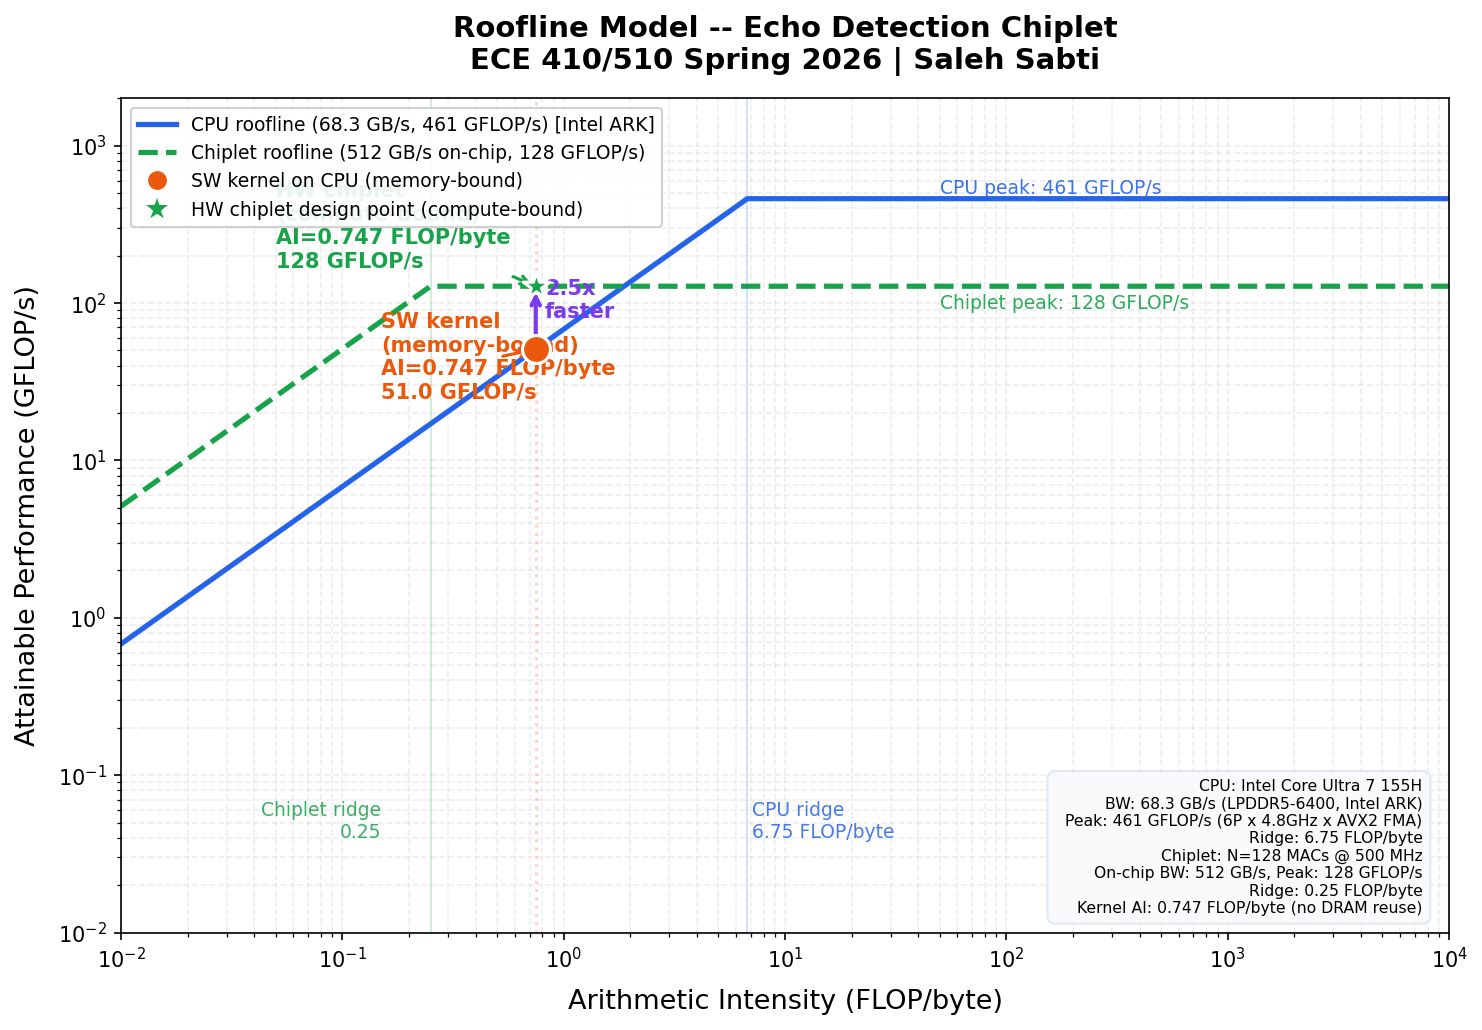
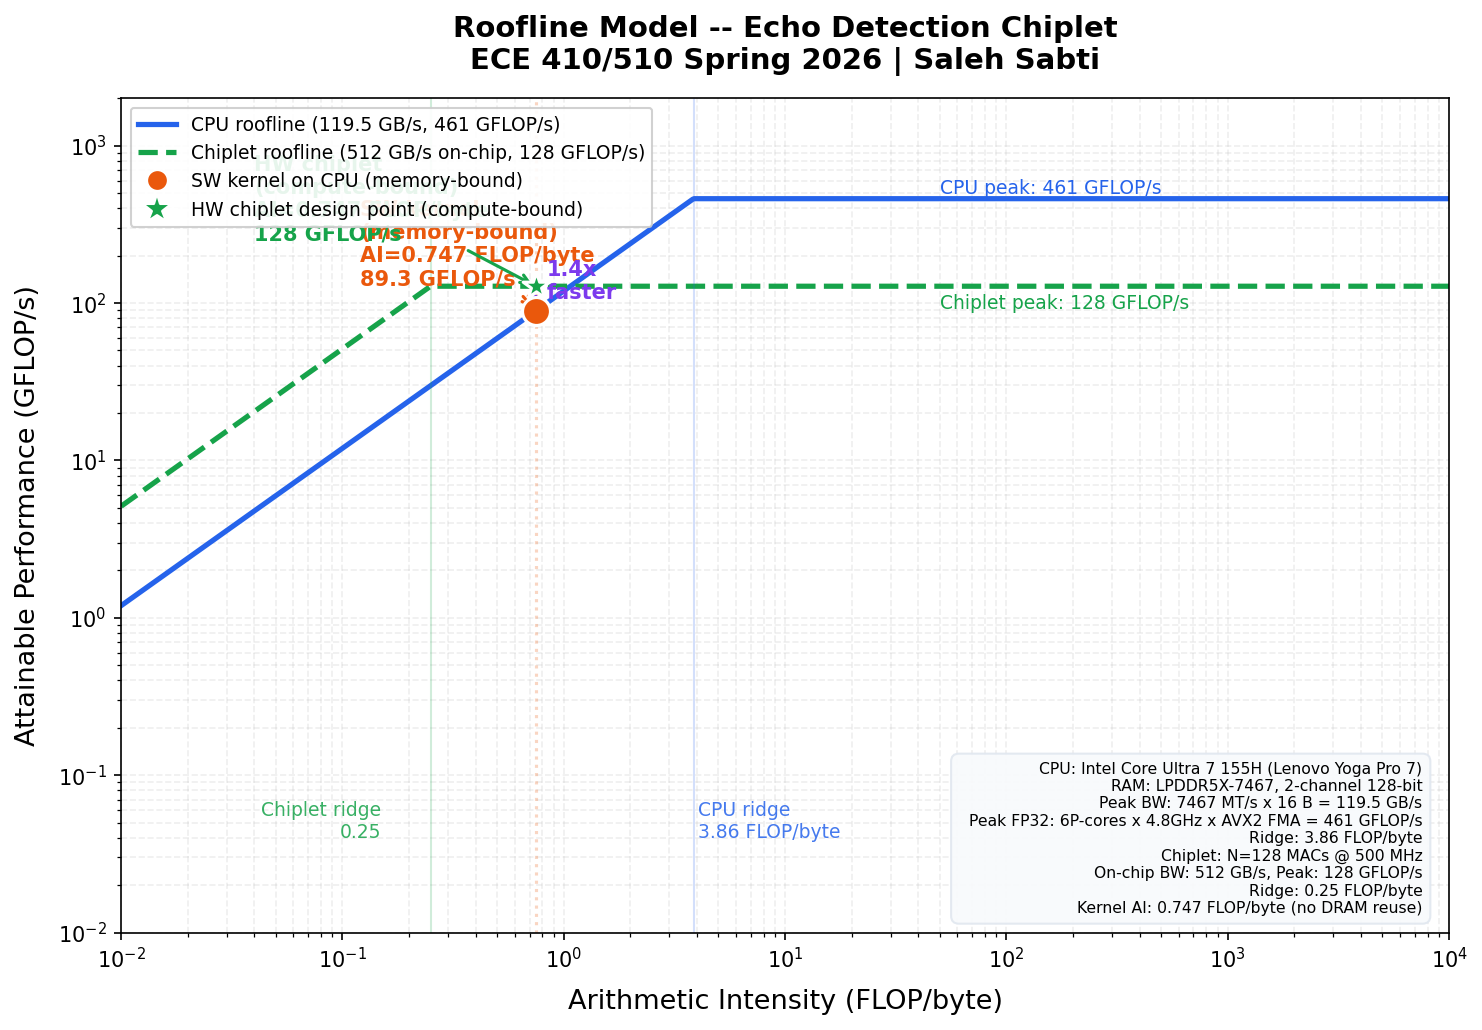
Add CF2 CMAN, fix CPU specs to LPDDR5X-7467 (119.5 GB/s)
- codefest/cf02/cman_roofline.md: CMAN transcribed to markdown
  (Kernel A GEMM: 170.7 FLOP/byte compute-bound 10000 GFLOP/s,
   Kernel B vector-add: 0.083 FLOP/byte memory-bound 26.7 GFLOP/s)
- Updated roofline_project.png: CPU BW corrected to 119.5 GB/s
  (LPDDR5X-7467 per system spec), ridge now 3.86 FLOP/byte
- Updated ai_calculation.md, partition_rationale.md, heilmeier.md,
  sw_baseline.md with correct ridge and attainable throughput

diff --git a/codefest/cf02/analysis/partition_rationale.md b/codefest/cf02/analysis/partition_rationale.md
@@ -8,7 +8,7 @@ Project: Echo Detection Chiplet
 
 The kernel to accelerate in hardware is `normalized_xcorr` in `echo_detect.py:47`. cProfile across 10 runs shows it accounts for 86% of total runtime. It is the only loop in the algorithm: three parallel dot-product accumulators over N=128 samples. All N multiply-accumulate operations per accumulator are data-independent, so they can fire in a single clock cycle on a parallel MAC array.
 
-The roofline confirms the choice. On the Intel Core Ultra 7 155H (68.3 GB/s DRAM, 460.8 GFLOP/s peak), the kernel sits at AI = 0.747 FLOP/byte, well below the ridge at 6.74 FLOP/byte. It is memory-bound, meaning DRAM bandwidth is the bottleneck, not compute. A chiplet with on-chip shift registers eliminates the DRAM traffic entirely: both the reference and mic sample windows live in two N-deep shift registers. That changes the effective AI from 0.747 (off-chip) to compute-bound territory.
+The roofline confirms the choice. On the Intel Core Ultra 7 155H (119.5 GB/s DRAM, 460.8 GFLOP/s peak), the kernel sits at AI = 0.747 FLOP/byte, well below the ridge at 3.86 FLOP/byte. It is memory-bound, meaning DRAM bandwidth is the bottleneck, not compute. A chiplet with on-chip shift registers eliminates the DRAM traffic entirely: both the reference and mic sample windows live in two N-deep shift registers. That changes the effective AI from 0.747 (off-chip) to compute-bound territory.
 
 ## (b) What the software baseline continues to handle
 
@@ -26,6 +26,6 @@ The chiplet is nowhere near interface-bound at this operating point. Even at the
 
 ## (d) Bound classification and whether HW changes it
 
-On the current CPU, the kernel is **memory-bound** (AI = 0.747 < ridge = 6.74 FLOP/byte). The bottleneck is fetching 128 ref and 128 mic samples from DRAM on every window.
+On the current CPU, the kernel is **memory-bound** (AI = 0.747 < ridge = 3.86 FLOP/byte). The bottleneck is fetching 128 ref and 128 mic samples from DRAM on every window.
 
 The hardware design eliminates this bottleneck. Shift registers hold both N-sample windows on-chip. A new sample shifts in each clock cycle; the oldest drops off. No DRAM access during detection. The chiplet's on-chip bandwidth is 128 MACs × 2 operands × 4 bytes × 500 MHz = 512 GB/s, and its compute ceiling is 128 GFLOP/s (128 MACs × 500 MHz × 2 FLOP). Ridge point = 128 / 512 = 0.25 FLOP/byte. Since AI = 0.747 > 0.25, **the HW design is compute-bound**, the opposite classification from software.

diff --git a/codefest/cf02/cman_roofline.md b/codefest/cf02/cman_roofline.md
@@ -1,0 +1,76 @@
+# CF02 CMAN — Roofline Construction and Kernel Classification
+ECE 410/510 Spring 2026 | Saleh Sabti
+
+**Hardware spec:** Peak compute = 10 TFLOPS (FP32), Peak DRAM bandwidth = 320 GB/s  
+**Ridge point:** 10,000 / 320 = **31.25 FLOP/byte**
+
+---
+
+## Roofline Diagram
+
+```
+GFLOP/s
+  |
+10000 |--------------------*---------[Kernel A ~10000 GFLOP/s]----------
+      |               /   .
+      |              / BW Limit 320 GB/s
+ 1000 |             /
+      |            /
+  100 |           /
+      |          /
+   10 |----*----/   [Kernel B ~26.7 GFLOP/s]
+      |   .    /
+    1 |       /
+      |______________________________________
+       0.01  0.1   1    10   100  1000   FLOP/byte
+                              ^
+                         (31.25) ridge point
+```
+
+---
+
+## Kernel A — Dense GEMM (1024 × 1024)
+
+Two FP32 matrices of size 1024×1024 multiplied together (square matmul).
+
+**FLOPs:**
+
+FLOPs = 2 × N³ = 2 × 1024³ = **2,147,483,648 FLOPs = 2,147 GFLOPs**
+
+**Byte transfers** (all three matrices A, B, C loaded/stored from DRAM, no reuse):
+
+Bytes = 3 × (1024 × 1024 × 4 bytes/element) = 3 × 4,194,304 = **12,582,912 bytes = 12.58 MB**
+
+**Arithmetic intensity:**
+
+AI = 2,147,483,648 / 12,582,912 = **170.7 FLOP/byte**
+
+**Classification:** AI = 170.7 > ridge = 31.25 → **Compute-bound**
+
+**Attainable performance:** Compute ceiling = **10,000 GFLOP/s**
+
+**Architectural recommendation:** Since the kernel is compute-bound, increasing memory bandwidth won't help. The better improvement is more FP32 compute throughput — more cores or higher clock frequency.
+
+---
+
+## Kernel B — Vector Add (N = 4,194,304)
+
+Two FP32 vectors of length 4,194,304 added element-wise.
+
+**FLOPs:**
+
+FLOPs = 4,194,304 × 1 = **4,194,304 FLOPs = 4.194 MFLOPs**
+
+**Byte transfers** (two input vectors read, one output written, no reuse):
+
+Bytes = 3 × (4,194,304 × 4 bytes/element) = **50,331,648 bytes = 50.3 MB**
+
+**Arithmetic intensity:**
+
+AI = 4,194,304 / 50,331,648 = **0.083 FLOP/byte**
+
+**Classification:** AI = 0.083 < ridge = 31.25 → **Memory-bound**
+
+**Attainable performance:** AI × Peak BW = 0.083 × 320 = **26.7 GFLOP/s**
+
+**Architectural recommendation:** Since the kernel is memory-bound, more compute cores won't help. The better improvement is higher memory bandwidth — faster DRAM, wider bus, or on-chip caching of the vectors.

diff --git a/project/heilmeier.md b/project/heilmeier.md
@@ -18,8 +18,8 @@ Software echo detection runs a normalized cross-correlation loop on a CPU. Profi
 
 - `normalized_xcorr` accounts for **86% of runtime** (dominant kernel)
 - Median wall-clock: **280 ms** to process 2 s of audio (31,872 windows)
-- Arithmetic intensity: **0.747 FLOP/byte** — memory-bound on this CPU (ridge = 6.74 FLOP/byte)
-- Attainable throughput: ~51 GFLOP/s (bandwidth ceiling, not compute ceiling)
+- Arithmetic intensity: **0.747 FLOP/byte** — memory-bound on this CPU (ridge = 3.86 FLOP/byte)
+- Attainable throughput: ~89 GFLOP/s (bandwidth ceiling, not compute ceiling)
 
 The limits are three: latency (285 ms end-to-end is not usable for real-time gating), power (a P-core running the detection loop draws far more than a dedicated circuit), and CPU load (the detection loop competes with other audio tasks and causes jitter). The memory-bound classification means the software version is wasting most of its compute capacity waiting on DRAM.
 

diff --git a/codefest/cf02/analysis/ai_calculation.md b/codefest/cf02/analysis/ai_calculation.md
@@ -60,11 +60,11 @@ AI = Total FLOPs / Total bytes
 
 ## Roofline Classification
 
-Target platform: Intel Core Ultra 7 155H (laptop)  
-- Peak DRAM bandwidth: 68.3 GB/s (Intel ARK, LPDDR5-6400)  
+Target platform: Intel Core Ultra 7 155H (Lenovo Yoga Pro 7 14IMH9)  
+- Peak DRAM bandwidth: **119.5 GB/s** (LPDDR5X-7467, 2-channel 128-bit bus: 7467 MT/s × 16 B)  
 - Peak FP32 throughput: 460.8 GFLOP/s (6 P-cores × 4.8 GHz boost × 16 FLOP/cycle, AVX2 FMA)  
-- Ridge point: 460.8 / 68.3 = **6.74 FLOP/byte**
+- Ridge point: 460.8 / 119.5 = **3.86 FLOP/byte**
 
-AI = 0.747 < ridge = 6.74 → **kernel is memory-bound on this CPU**
+AI = 0.747 < ridge = 3.86 → **kernel is memory-bound on this CPU**
 
-Attainable performance = min(460.8, 68.3 × 0.747) = min(460.8, 51.0) = **51.0 GFLOP/s**
+Attainable performance = min(460.8, 119.5 × 0.747) = min(460.8, 89.3) = **89.3 GFLOP/s**

diff --git a/project/m1/sw_baseline.md b/project/m1/sw_baseline.md
@@ -9,7 +9,8 @@ Project: Echo Detection Chiplet
 | Field | Value |
 |-------|-------|
 | CPU | Intel Core Ultra 7 155H (Meteor Lake, 6P+8E cores) |
-| OS | Ubuntu 22.04 (WSL2 on Windows 11) |
+| RAM | 16 GB LPDDR5X-7467, 2-channel (119.5 GB/s peak BW) |
+| OS | Windows 11 Home 25H2 / WSL2 Ubuntu |
 | Python | 3.12.3 |
 | Script | `project/echo_detect.py` |
 | Input | Synthetic signals, 2.0 s @ 16 kHz = 32,000 samples |
